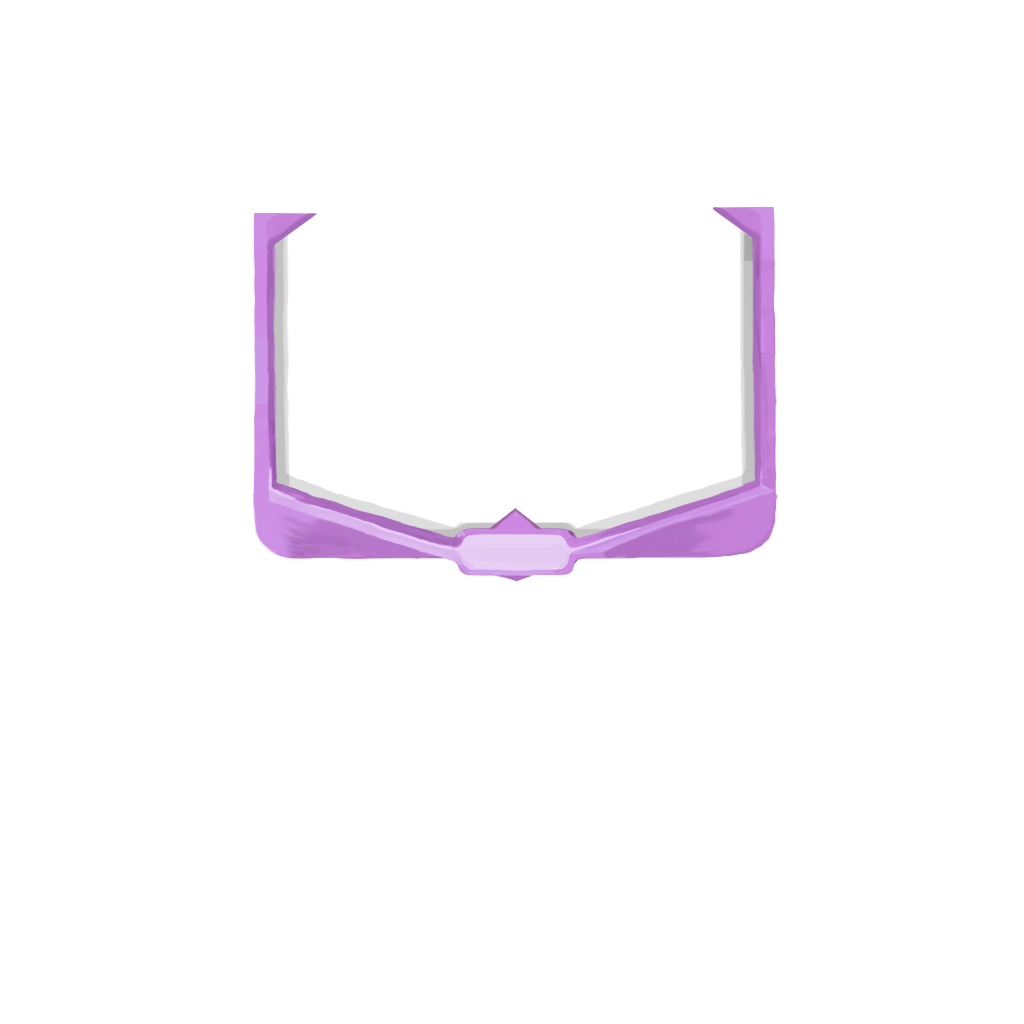
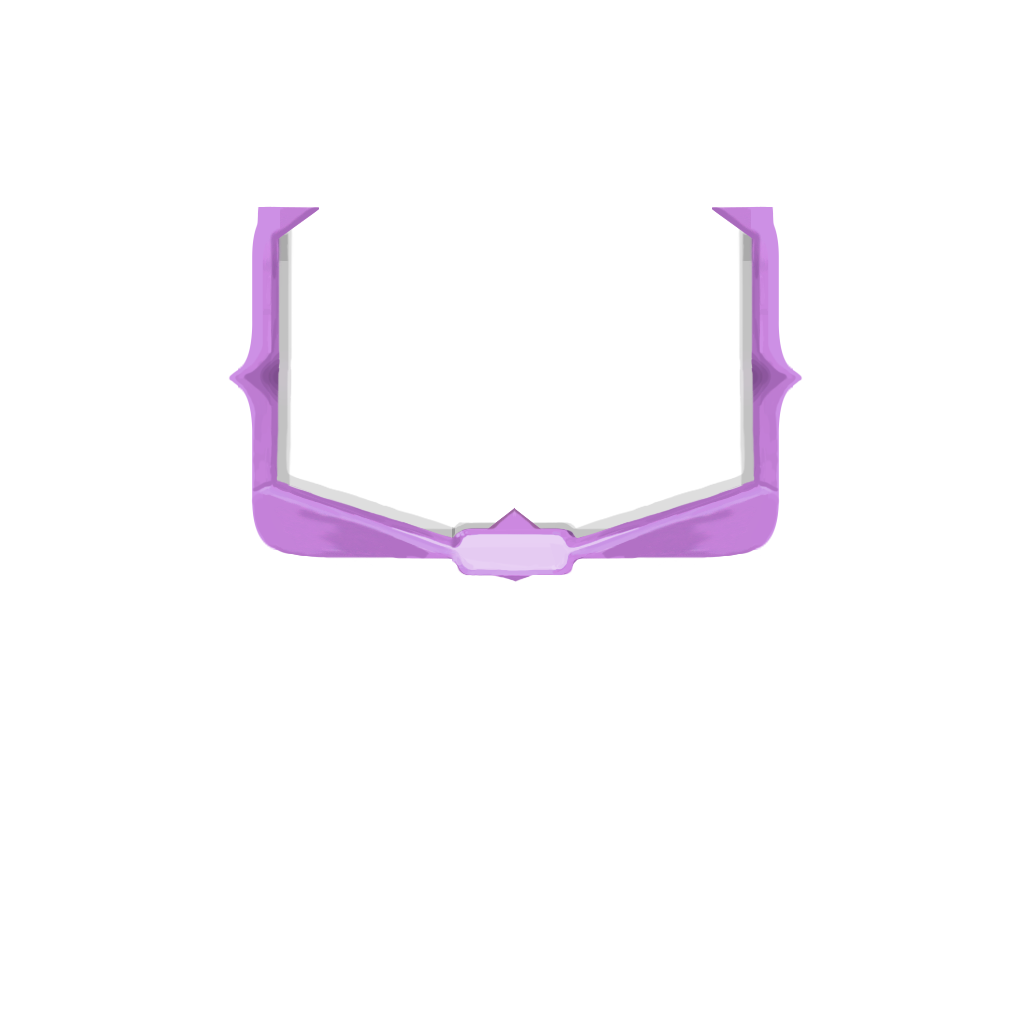
Replacement for Copy Paste mostly done, minus the power part.  Vex Magic awaits.  Updated the function frame to have brackets.

Changed region(s): [[0.2188, 0.1875, 0.3125, 0.4375], [0.7188, 0.2188, 0.7812, 0.5], [0.25, 0.4688, 0.4375, 0.5625]]

diff --git a/src/main/java/automaton/cards/FullRelease.java b/src/main/java/automaton/cards/FullRelease.java
@@ -1,0 +1,44 @@
+package automaton.cards;
+
+import automaton.AutomatonMod;
+import basemod.AutoAdd;
+import com.megacrit.cardcrawl.actions.AbstractGameAction;
+import com.megacrit.cardcrawl.cards.AbstractCard;
+import com.megacrit.cardcrawl.characters.AbstractPlayer;
+import com.megacrit.cardcrawl.monsters.AbstractMonster;
+
+import static sneckomod.SneckoMod.getRandomStatus;
+
+public class FullRelease extends AbstractBronzeCard {
+
+    public final static String ID = makeID("FullRelease");
+
+    //stupid intellij stuff attack, enemy, rare
+
+
+    public FullRelease() {
+        super(ID, 1, CardType.SKILL, CardRarity.SPECIAL, CardTarget.SELF);
+        thisEncodes();
+    }
+
+    public void use(AbstractPlayer p, AbstractMonster m) {
+
+    }
+
+    @Override
+    public void onCompile(AbstractCard function, boolean forGameplay) {
+        if (forGameplay) {
+            //TODO Vex madness to make a function into a power
+            //TODO We didn't plan for powers when doing art splits.  Pushed a FunctionPower card art - just use that for the compiled power card.
+            //TODO We could immedaitely give the buff, but it feels right for balance to still have costs matter.
+            //TODO The function will have to skip its normal use() effects when played, but still show them on the card, so the text reads:
+            //TODO "Activate these effects at the start of each turn:"
+            //TODO Either that, or the Power card actually does do its use() and targets enemies, which is also weird.
+            //TODO Bonus question - should it work with Sentient Form?  buffing it EVERY TURN?!!?!?
+        }
+    }
+
+    public void upp() {
+        upgradeBaseCost(0);
+    }
+}

diff --git a/src/main/java/automaton/cards/AlphaBuild.java b/src/main/java/automaton/cards/AlphaBuild.java
@@ -1,0 +1,48 @@
+package automaton.cards;
+
+import automaton.AutomatonMod;
+import basemod.AutoAdd;
+import com.megacrit.cardcrawl.actions.AbstractGameAction;
+import com.megacrit.cardcrawl.cards.AbstractCard;
+import com.megacrit.cardcrawl.characters.AbstractPlayer;
+import com.megacrit.cardcrawl.monsters.AbstractMonster;
+import sneckomod.SneckoMod;
+
+import static sneckomod.SneckoMod.getRandomStatus;
+
+public class AlphaBuild extends AbstractBronzeCard {
+
+    public final static String ID = makeID("AlphaBuild");
+
+    //stupid intellij stuff attack, enemy, rare
+
+    private static final int DAMAGE = 15;
+    private static final int UPG_DAMAGE = 3;
+
+    public AlphaBuild() {
+        super(ID, 2, CardType.ATTACK, CardRarity.RARE, CardTarget.ENEMY);
+        baseDamage = DAMAGE;
+        thisEncodes();
+        //tags.add(AutomatonMod.BAD_COMPILE);
+        cardsToPreview = new BetaBuild();
+    }
+
+    public void use(AbstractPlayer p, AbstractMonster m) {
+        dmg(m, AbstractGameAction.AttackEffect.BLUNT_LIGHT);
+        shuffleIn(SneckoMod.getRandomStatus());
+    }
+
+    @Override
+    public void onCompile(AbstractCard function, boolean forGameplay) {
+        if (forGameplay) {
+            AbstractCard q = new BetaBuild();
+            shuffleIn(q, 1);
+        }
+    }
+
+    public void upp() {
+        isInnate = true;
+        rawDescription = UPGRADE_DESCRIPTION;
+        initializeDescription();
+    }
+}

diff --git a/src/main/java/automaton/cards/BetaBuild.java b/src/main/java/automaton/cards/BetaBuild.java
@@ -1,0 +1,47 @@
+package automaton.cards;
+
+import automaton.AutomatonMod;
+import basemod.AutoAdd;
+import com.megacrit.cardcrawl.actions.AbstractGameAction;
+import com.megacrit.cardcrawl.actions.common.ApplyPowerAction;
+import com.megacrit.cardcrawl.cards.AbstractCard;
+import com.megacrit.cardcrawl.characters.AbstractPlayer;
+import com.megacrit.cardcrawl.monsters.AbstractMonster;
+import com.megacrit.cardcrawl.powers.GainStrengthPower;
+import com.megacrit.cardcrawl.powers.StrengthPower;
+import sneckomod.SneckoMod;
+
+import static sneckomod.SneckoMod.getRandomStatus;
+
+public class BetaBuild extends AbstractBronzeCard {
+
+    public final static String ID = makeID("BetaBuild");
+
+    //stupid intellij stuff attack, enemy, rare
+    private static final int BLOCK = 15;
+
+    public BetaBuild() {
+        super(ID, 2, CardType.SKILL, CardRarity.SPECIAL, CardTarget.SELF);
+        baseBlock = BLOCK;
+        baseMagicNumber = magicNumber = 1;
+        thisEncodes();
+        cardsToPreview = new FullRelease();
+    }
+
+    public void use(AbstractPlayer p, AbstractMonster m) {
+        blck();
+        shuffleIn(SneckoMod.getRandomStatus());
+    }
+
+    @Override
+    public void onCompile(AbstractCard function, boolean forGameplay) {
+        if (forGameplay) {
+            AbstractCard q = new FullRelease();
+            shuffleIn(q, 1);
+        }
+    }
+
+    public void upp() {
+        upgradeBlock(5);
+    }
+}

diff --git a/src/main/java/automaton/cards/CopyPaste.java b/src/main/java/automaton/cards/CopyPaste.java
@@ -1,3 +1,4 @@
+/*
 package automaton.cards;
 
 import automaton.powers.CopyPastePower;
@@ -26,3 +27,4 @@ public class CopyPaste extends AbstractBronzeCard {
         initializeDescription();
     }
 }
+*/
